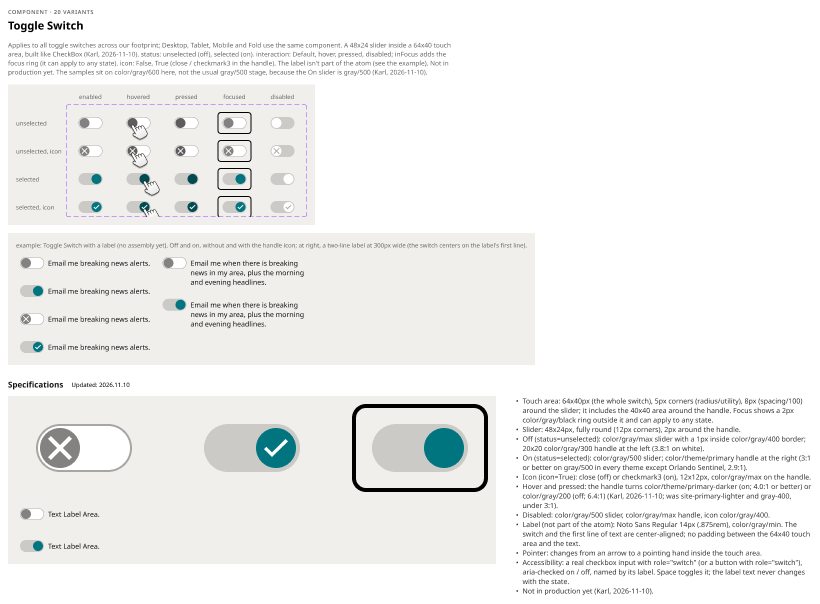
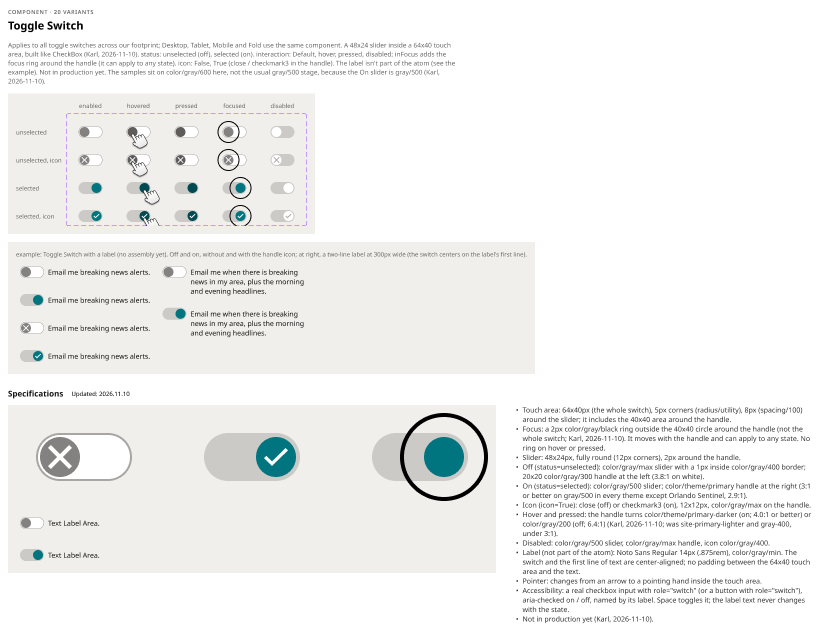
Toggle Switch: focus ring goes around the handle, not the whole switch
Karl, 2026-11-10. Figma InFocus variants: root stroke removed, a 40x40 Focus Ring circle
(2px color/gray/black outside) centered on the handle. Re-exported; ToggleSwitch in the
Claude design system draws it as a ::after on the handle.

Claude-Session: https://claude.ai/code/session_012ti5sSYUQaKpA7dxcyKU6q

diff --git a/components/core/toggle-switch/toggle-switch.html b/components/core/toggle-switch/toggle-switch.html
@@ -45,26 +45,28 @@
 <section class="mng-variant" data-variant="unselected / Default / True / False">
   <h2>unselected / Default / True / False <small>64×40 · <a href="https://www.figma.com/design/jFHYqhZbJjvWQmDI4myCsd/?node-id=5222-227">Figma 5222:227</a></small></h2>
   <div class="mng-variant__stage">
-    <div class="mng-toggle-switch__status-unselected-infocus-true-interaction-default-icon-false" data-layer="status=unselected, inFocus=True, interaction=Default, icon=False" style="display:flex;flex-direction:row;gap:0px;padding:var(--mng-spacing-100, 8px) var(--mng-spacing-100, 8px) var(--mng-spacing-100, 8px) var(--mng-spacing-100, 8px);justify-content:center;align-items:center;width:64px;height:40px;border-radius:var(--mng-radius-utility, 5px);box-shadow:0 0 0 2px var(--mng-color-gray-black, #000000)">
+    <div class="mng-toggle-switch__status-unselected-infocus-true-interaction-default-icon-false" data-layer="status=unselected, inFocus=True, interaction=Default, icon=False" style="display:flex;flex-direction:row;gap:0px;padding:var(--mng-spacing-100, 8px) var(--mng-spacing-100, 8px) var(--mng-spacing-100, 8px) var(--mng-spacing-100, 8px);justify-content:center;align-items:center;width:64px;height:40px;border-radius:var(--mng-radius-utility, 5px);position:relative">
       <div class="mng-toggle-switch__slider" data-layer="Slider" style="display:flex;flex-direction:row;gap:0px;padding:2px 2px 2px 2px;justify-content:flex-start;align-items:center;width:48px;flex-shrink:0;height:24px;border-radius:12px;background:var(--mng-color-gray-max, #ffffff);box-shadow:inset 0 0 0 1px var(--mng-color-gray-400, #a7a6a3)">
         <div class="mng-toggle-switch__handle" data-layer="Handle" style="display:flex;flex-direction:row;gap:8px;padding:0px 0px 0px 0px;justify-content:center;align-items:center;width:20px;flex-shrink:0;height:20px;border-radius:10px;background:var(--mng-color-gray-300, #838280)">
           <!-- instance of Icons (Name=close), Figma node 4693:36 -->
           <span class="mng-instance mng-toggle-switch__icon" data-component="Icons" data-variant="Name=close" aria-hidden="true" style="display:flex;flex-direction:row;gap:8px;padding:0px 0px 0px 0px;justify-content:center;align-items:center;width:12px;flex-shrink:0;height:12px;overflow:hidden;display:inline-flex;align-items:center;justify-content:center;font-size:12px;color:var(--mng-color-gray-max, #ffffff)" hidden>✕</span>
         </div>
       </div>
+      <div class="mng-toggle-switch__focus-ring" data-layer="Focus Ring" style="position:absolute;left:0px;width:40px;top:0px;height:40px;box-shadow:0 0 0 2px var(--mng-color-gray-black, #000000)" aria-hidden="true"></div>
     </div>
   </div>
 </section>
 <section class="mng-variant" data-variant="unselected / Default / True / True">
   <h2>unselected / Default / True / True <small>64×40 · <a href="https://www.figma.com/design/jFHYqhZbJjvWQmDI4myCsd/?node-id=5222-207">Figma 5222:207</a></small></h2>
   <div class="mng-variant__stage">
-    <div class="mng-toggle-switch__status-unselected-infocus-true-interaction-default-icon-true" data-layer="status=unselected, inFocus=True, interaction=Default, icon=True" style="display:flex;flex-direction:row;gap:0px;padding:var(--mng-spacing-100, 8px) var(--mng-spacing-100, 8px) var(--mng-spacing-100, 8px) var(--mng-spacing-100, 8px);justify-content:center;align-items:center;width:64px;height:40px;border-radius:var(--mng-radius-utility, 5px);box-shadow:0 0 0 2px var(--mng-color-gray-black, #000000)">
+    <div class="mng-toggle-switch__status-unselected-infocus-true-interaction-default-icon-true" data-layer="status=unselected, inFocus=True, interaction=Default, icon=True" style="display:flex;flex-direction:row;gap:0px;padding:var(--mng-spacing-100, 8px) var(--mng-spacing-100, 8px) var(--mng-spacing-100, 8px) var(--mng-spacing-100, 8px);justify-content:center;align-items:center;width:64px;height:40px;border-radius:var(--mng-radius-utility, 5px);position:relative">
       <div class="mng-toggle-switch__slider" data-layer="Slider" style="display:flex;flex-direction:row;gap:0px;padding:2px 2px 2px 2px;justify-content:flex-start;align-items:center;width:48px;flex-shrink:0;height:24px;border-radius:12px;background:var(--mng-color-gray-max, #ffffff);box-shadow:inset 0 0 0 1px var(--mng-color-gray-400, #a7a6a3)">
         <div class="mng-toggle-switch__handle" data-layer="Handle" style="display:flex;flex-direction:row;gap:8px;padding:0px 0px 0px 0px;justify-content:center;align-items:center;width:20px;flex-shrink:0;height:20px;border-radius:10px;background:var(--mng-color-gray-300, #838280)">
           <!-- instance of Icons (Name=close), Figma node 4693:36 -->
           <span class="mng-instance mng-toggle-switch__icon" data-component="Icons" data-variant="Name=close" aria-hidden="true" style="display:flex;flex-direction:row;gap:8px;padding:0px 0px 0px 0px;justify-content:center;align-items:center;width:12px;flex-shrink:0;height:12px;overflow:hidden;display:inline-flex;align-items:center;justify-content:center;font-size:12px;color:var(--mng-color-gray-max, #ffffff)">✕</span>
         </div>
       </div>
+      <div class="mng-toggle-switch__focus-ring" data-layer="Focus Ring" style="position:absolute;left:0px;width:40px;top:0px;height:40px;box-shadow:0 0 0 2px var(--mng-color-gray-black, #000000)" aria-hidden="true"></div>
     </div>
   </div>
 </section>
@@ -175,26 +177,28 @@
 <section class="mng-variant" data-variant="selected / Default / True / False">
   <h2>selected / Default / True / False <small>64×40 · <a href="https://www.figma.com/design/jFHYqhZbJjvWQmDI4myCsd/?node-id=5219-171">Figma 5219:171</a></small></h2>
   <div class="mng-variant__stage">
-    <div class="mng-toggle-switch__status-selected-infocus-true-interaction-default-icon-false" data-layer="status=selected, inFocus=True, interaction=Default, icon=False" style="display:flex;flex-direction:row;gap:0px;padding:var(--mng-spacing-100, 8px) var(--mng-spacing-100, 8px) var(--mng-spacing-100, 8px) var(--mng-spacing-100, 8px);justify-content:center;align-items:center;width:64px;height:40px;border-radius:var(--mng-radius-utility, 5px);box-shadow:0 0 0 2px var(--mng-color-gray-black, #000000)">
+    <div class="mng-toggle-switch__status-selected-infocus-true-interaction-default-icon-false" data-layer="status=selected, inFocus=True, interaction=Default, icon=False" style="display:flex;flex-direction:row;gap:0px;padding:var(--mng-spacing-100, 8px) var(--mng-spacing-100, 8px) var(--mng-spacing-100, 8px) var(--mng-spacing-100, 8px);justify-content:center;align-items:center;width:64px;height:40px;border-radius:var(--mng-radius-utility, 5px);position:relative">
       <div class="mng-toggle-switch__slider" data-layer="Slider" style="display:flex;flex-direction:row;gap:0px;padding:2px 2px 2px 2px;justify-content:flex-end;align-items:center;width:48px;flex-shrink:0;height:24px;border-radius:12px;background:var(--mng-color-gray-500, #cccac7)">
         <div class="mng-toggle-switch__handle" data-layer="Handle" style="display:flex;flex-direction:row;gap:8px;padding:0px 0px 0px 0px;justify-content:center;align-items:center;width:20px;flex-shrink:0;height:20px;border-radius:10px;background:var(--mng-color-theme-primary, #007580)">
           <!-- instance of Icons (Name=checkmark3), Figma node 4693:30 -->
           <span class="mng-instance mng-toggle-switch__icon" data-component="Icons" data-variant="Name=checkmark3" aria-hidden="true" style="display:flex;flex-direction:column;gap:8px;padding:0px 0px 0px 0px;justify-content:center;align-items:center;width:12px;flex-shrink:0;height:12px;overflow:hidden;display:inline-flex;align-items:center;justify-content:center;font-size:12px;color:var(--mng-color-gray-max, #ffffff)" hidden>◻</span>
         </div>
       </div>
+      <div class="mng-toggle-switch__focus-ring" data-layer="Focus Ring" style="position:absolute;left:24px;width:40px;top:0px;height:40px;box-shadow:0 0 0 2px var(--mng-color-gray-black, #000000)" aria-hidden="true"></div>
     </div>
   </div>
 </section>
 <section class="mng-variant" data-variant="selected / Default / True / True">
   <h2>selected / Default / True / True <small>64×40 · <a href="https://www.figma.com/design/jFHYqhZbJjvWQmDI4myCsd/?node-id=5220-189">Figma 5220:189</a></small></h2>
   <div class="mng-variant__stage">
-    <div class="mng-toggle-switch__status-selected-infocus-true-interaction-default-icon-true" data-layer="status=selected, inFocus=True, interaction=Default, icon=True" style="display:flex;flex-direction:row;gap:0px;padding:var(--mng-spacing-100, 8px) var(--mng-spacing-100, 8px) var(--mng-spacing-100, 8px) var(--mng-spacing-100, 8px);justify-content:center;align-items:center;width:64px;height:40px;border-radius:var(--mng-radius-utility, 5px);box-shadow:0 0 0 2px var(--mng-color-gray-black, #000000)">
+    <div class="mng-toggle-switch__status-selected-infocus-true-interaction-default-icon-true" data-layer="status=selected, inFocus=True, interaction=Default, icon=True" style="display:flex;flex-direction:row;gap:0px;padding:var(--mng-spacing-100, 8px) var(--mng-spacing-100, 8px) var(--mng-spacing-100, 8px) var(--mng-spacing-100, 8px);justify-content:center;align-items:center;width:64px;height:40px;border-radius:var(--mng-radius-utility, 5px);position:relative">
       <div class="mng-toggle-switch__slider" data-layer="Slider" style="display:flex;flex-direction:row;gap:0px;padding:2px 2px 2px 2px;justify-content:flex-end;align-items:center;width:48px;flex-shrink:0;height:24px;border-radius:12px;background:var(--mng-color-gray-500, #cccac7)">
         <div class="mng-toggle-switch__handle" data-layer="Handle" style="display:flex;flex-direction:row;gap:8px;padding:0px 0px 0px 0px;justify-content:center;align-items:center;width:20px;flex-shrink:0;height:20px;border-radius:10px;background:var(--mng-color-theme-primary, #007580)">
           <!-- instance of Icons (Name=checkmark3), Figma node 4693:30 -->
           <span class="mng-instance mng-toggle-switch__icon" data-component="Icons" data-variant="Name=checkmark3" aria-hidden="true" style="display:flex;flex-direction:column;gap:8px;padding:0px 0px 0px 0px;justify-content:center;align-items:center;width:12px;flex-shrink:0;height:12px;overflow:hidden;display:inline-flex;align-items:center;justify-content:center;font-size:12px;color:var(--mng-color-gray-max, #ffffff)">◻</span>
         </div>
       </div>
+      <div class="mng-toggle-switch__focus-ring" data-layer="Focus Ring" style="position:absolute;left:24px;width:40px;top:0px;height:40px;box-shadow:0 0 0 2px var(--mng-color-gray-black, #000000)" aria-hidden="true"></div>
     </div>
   </div>
 </section>

diff --git a/scripts/claude-design-system/src/components/ToggleSwitch/component.css b/scripts/claude-design-system/src/components/ToggleSwitch/component.css
@@ -1,4 +1,4 @@
-/* 64x40 touch area (radius/utility, 8px around the slider); the focus ring is a 2px gray/black outline outside it. */
+/* 64x40 touch area (radius/utility, 8px around the slider). The focus ring goes around the handle, not the touch area. */
 .mngds-toggle-switch {
   position: relative; display: inline-flex; align-items: center; justify-content: center; flex-shrink: 0; box-sizing: border-box;
   width: var(--mng-toggle-switch-base-root-width); height: var(--mng-toggle-switch-base-root-height);
@@ -18,7 +18,7 @@
   box-shadow: inset 0 0 0 var(--mng-toggle-switch-base-slider-border-width) var(--mng-toggle-switch-base-slider-border-color);
 }
 .mngds-toggle-switch__handle {
-  display: flex; align-items: center; justify-content: center; flex-shrink: 0;
+  position: relative; display: flex; align-items: center; justify-content: center; flex-shrink: 0;
   width: var(--mng-toggle-switch-base-slider-handle-width); height: var(--mng-toggle-switch-base-slider-handle-height);
   border-radius: var(--mng-toggle-switch-base-slider-handle-border-radius);
   background: var(--mng-toggle-switch-status-unselected-interaction-default-slider-handle-background);
@@ -51,7 +51,11 @@
 .mngds-toggle-switch--disabled .mngds-toggle-switch__handle { background: var(--mng-toggle-switch-status-unselected-interaction-disabled-slider-handle-background); }
 .mngds-toggle-switch--disabled .mngds-toggle-switch__icon { color: var(--mng-toggle-switch-interaction-disabled-slider-handle-icon-icon-color); }
 
-/* InFocus (forced or keyboard focus): 2px gray/black ring outside the touch area. */
-.mngds-toggle-switch.is-infocus, .mngds-toggle-switch:has(.mngds-toggle-switch__input:focus-visible) {
-  box-shadow: 0 0 0 var(--mng-toggle-switch-infocus-true-root-border-width) var(--mng-toggle-switch-infocus-true-root-border-color);
+/* InFocus (forced or keyboard focus): a 2px gray/black ring outside the 40x40 circle around the handle (Figma
+   Focus Ring: the touch-area height around the 20px handle), moving with it. Not on hover or pressed. */
+.mngds-toggle-switch.is-infocus .mngds-toggle-switch__handle::after,
+.mngds-toggle-switch:has(.mngds-toggle-switch__input:focus-visible) .mngds-toggle-switch__handle::after {
+  content: ""; position: absolute; pointer-events: none; border-radius: 50%;
+  inset: calc((var(--mng-toggle-switch-base-root-height) - var(--mng-toggle-switch-base-slider-handle-height)) / -2);
+  box-shadow: 0 0 0 var(--mng-toggle-switch-infocus-true-focus-ring-border-width) var(--mng-toggle-switch-infocus-true-focus-ring-border-color);
 }

diff --git a/scripts/claude-design-system/src/components/ToggleSwitch/preview.html b/scripts/claude-design-system/src/components/ToggleSwitch/preview.html
@@ -20,7 +20,7 @@
       h(NS.ToggleSwitch, { status: s[0] ? 'selected' : 'unselected', icon: p.icon, onChange: function (e) { s[1](e.target.checked); } }), 'Email me breaking news alerts');
   }
   ReactDOM.createRoot(document.getElementById('root')).render(h('div', null,
-    h(I.SpecimenSection, { title: 'status × interaction', note: 'A 48x24 slider in a 64x40 touch area (radius/utility). Off: white slider, gray/400 border, gray/300 handle. On: gray/500 slider, color/theme/primary handle. Hover and pressed darken the handle (gray/200, primary-darker). Focus shows a 2px gray/black ring. Samples sit on gray/600 because the On slider is gray/500.' },
+    h(I.SpecimenSection, { title: 'status × interaction', note: 'A 48x24 slider in a 64x40 touch area (radius/utility). Off: white slider, gray/400 border, gray/300 handle. On: gray/500 slider, color/theme/primary handle. Hover and pressed darken the handle (gray/200, primary-darker). Focus shows a 2px gray/black ring around the handle. Samples sit on gray/600 because the On slider is gray/500.' },
       [['unselected', false], ['unselected', true], ['selected', false], ['selected', true]].map(function (r) { return h(I.Specimen, { key: r[0] + r[1], items: row(r[0], r[1]) }); })),
     h(I.SpecimenSection, { title: 'Try it', note: 'Click, or Tab to it and press Space. The switch and the first line of the label are center-aligned, with no gap after the 64x40 touch area.' },
       h(I.Specimen, { items: [{ label: 'Off, with a label', node: h(Demo) }, { label: 'On, with the handle icon', node: h(Demo, { on: true, icon: true }) }] }))));

diff --git a/MNG-Web-Design-System-Status.md b/MNG-Web-Design-System-Status.md
@@ -209,7 +209,7 @@ The component specs in `components/` (modal, disclosure, empty-state-status-badg
 
 Kept here for a few weeks so the history is easy to find; git log has the rest.
 
-- **Toggle Switch** (2026-11-10; Karl: build it like the CheckBox). Main file, Toggle Switches page (renamed "Toggle Switches | 2026.11.10"). The `selection/toggle ` set (`5216:61`, Material 3 kit names) became **Toggle Switch**, same node, so its instances follow: properties `status` (unselected | selected), `interaction` (Default | hover | pressed | disabled), `inFocus` (False | True), `icon` (False | True), 20 variants, default off. Root = a 64x40 touch area (8px `spacing/100` around the 48x24 slider, `radius/utility`; Karl picked 64x40 after a side-by-side with 64x24), InFocus = 2px `color/gray/black` ring outside it (no ring on hover, as in CheckBox's Figma variants). Colors bound: off slider `gray/max` + 1px `gray/400`, handle `gray/300`; on slider `gray/500`, handle `color/theme/primary`; hover and pressed handle `primary-darker` (on) / `gray/200` (off) (Karl: was site-primary-lighter / gray-400, under 3:1; primary-darker is 4.0:1 or better on gray/500, gray/200 6.4:1 on white); disabled slider `gray/500`, handle `gray/max`, icon `gray/400` (Karl: the drawing was right, the old spec text had slider and handle swapped). Layers renamed Slider / Handle / Icon. New white documentation container copied from CheckBox's (Variant Grid with row and column labels and pointer cursors, an example with labels, Specifications with a 4× detail), on a **`color/gray/600` stage** (Karl: the On slider is gray/500; CLAUDE.md exception). The old March documentation frame is moved to the right and labelled "can be deleted". Contrast: Orlando Sentinel's On handle is 2.9:1 on gray/500 (known issue); the On slider is 1.6:1 on white (the handle carries the state). Not in production yet (Karl). Exported (`components/core/toggle-switch/`, 20 variants, 45 tokens) and added to the Claude design system as `ToggleSwitch` (a native checkbox input with `role="switch"` over the touch area). Raw values from the spec: the slider's 12px corners and 2px padding, the handle's 10px corners. Question for Karl: CheckBox's spec text says hover and pressed show the ring, but its Figma hover and pressed variants have no ring (the toggle follows the variants).
+- **Toggle Switch** (2026-11-10; Karl: build it like the CheckBox). Main file, Toggle Switches page (renamed "Toggle Switches | 2026.11.10"). The `selection/toggle ` set (`5216:61`, Material 3 kit names) became **Toggle Switch**, same node, so its instances follow: properties `status` (unselected | selected), `interaction` (Default | hover | pressed | disabled), `inFocus` (False | True), `icon` (False | True), 20 variants, default off. Root = a 64x40 touch area (8px `spacing/100` around the 48x24 slider, `radius/utility`; Karl picked 64x40 after a side-by-side with 64x24), InFocus = 2px `color/gray/black` ring outside the 40x40 circle around the handle, moving with it (Karl, same day: around the handle, not the whole switch; first built around the touch area); no ring on hover or pressed. Colors bound: off slider `gray/max` + 1px `gray/400`, handle `gray/300`; on slider `gray/500`, handle `color/theme/primary`; hover and pressed handle `primary-darker` (on) / `gray/200` (off) (Karl: was site-primary-lighter / gray-400, under 3:1; primary-darker is 4.0:1 or better on gray/500, gray/200 6.4:1 on white); disabled slider `gray/500`, handle `gray/max`, icon `gray/400` (Karl: the drawing was right, the old spec text had slider and handle swapped). Layers renamed Slider / Handle / Icon. New white documentation container copied from CheckBox's (Variant Grid with row and column labels and pointer cursors, an example with labels, Specifications with a 4× detail), on a **`color/gray/600` stage** (Karl: the On slider is gray/500; CLAUDE.md exception). The old March documentation frame is moved to the right and labelled "can be deleted". Contrast: Orlando Sentinel's On handle is 2.9:1 on gray/500 (known issue); the On slider is 1.6:1 on white (the handle carries the state). Not in production yet (Karl). Exported (`components/core/toggle-switch/`, 20 variants, 45 tokens) and added to the Claude design system as `ToggleSwitch` (a native checkbox input with `role="switch"` over the touch area). Raw values from the spec: the slider's 12px corners and 2px padding, the handle's 10px corners. Open: CheckBox's spec text says hover and pressed show the ring, but its Figma hover and pressed variants have none; Karl isn't sure which is intended (the toggle has no ring on hover).
 - **Modal close button inside the card** (2026-11-10; Karl: on all modals, use the in-line close in the container's top-right corner). Main file, Modal Panels page (renamed "Modal Panels | 2026.11.10"): in all 6 ModalsCenter variants Button Modal Close (32px circle centered on the card's corner) was replaced by Button In-Line Close (40×40 target, 28px box, 12px icon, unchanged), absolute in the Content Frame's top-right corner, flush with its top and right edges (x = width − 40, y = 0, constraints right / top), the same placement it has in InLineMessage and ModalsOffset. TabletH's close button used to sit in Modal Container; it's in the Content Frame now like the others. Mobile, Fold and MobileScroll headers keep 16px (`spacing/200`, bound) clear on their right so the title wraps before the button (Karl chose this); Desktop and tablets already clear it with their 40px padding. The same swap on the four detached cards in the Specifications (two keyboard samples, the two filled-block diagrams); the two orange dashed "open question" markers removed; spec list, description, legend, sample notes and the set description updated; ModalsCenter instances elsewhere (Share Dialog layouts, Buttons page) follow the component. Accessibility: the target is now 40×40 (WCAG 2.5.8). Re-exported ModalsCenter, Pop-Up Modal Close and In-Line Close (registry text: Modal Close no longer used on modals). Claude design system: `ModalsCenter` uses `ButtonInLineClose` in the corner, header right padding from the new `header.padding-right` token; the Button Modal Close and In-Line Close guidance updated. Not changed: Button Modal Close itself (it stays in the library); the `Modals/*/Login` components in the main file (no page; probably from the Embedded Login work) and the Embedded Login file still use Button Modal Close; Reader Dashboard v2.0 picks up the change when the library is published (its own detached modals, if any, weren't checked: the file timed out). Publish the main library (Karl).
 - **ModalsCenter in the Claude design system** (2026-11-10; Karl: "not quite ready to share"). The Claude version was never rebuilt after the 2026-11-04 Figma change: its MobileScroll pointed at 8 component token names that no longer exist, so that sample drew broken (no margin, close button cut off, the whole card scrolled). Rebuilt `scripts/claude-design-system/src/components/ModalsCenter/`: one layout for every Device (the card never grows past the screen; when content is taller only the Body Container scrolls, header and CTAs stay put), the Figma scroll indicator (4px `color/gray/300`, 3.84:1 non-text), compact mode under 560px of visible area (subtitle and links move into the body, card padding 16 top and bottom), the keyboard-open layout (visualViewport, 8px gaps, covers the masthead), the focus rule for fields, and the 2026-11-05 Accessibility rules (rendered at the end of `body` with everything else `inert`, page scroll-locked, focus to the `h2` title, close button last in the Tab order, a scrolling body with nothing focusable gets `tabindex="0"`). New props `compact`, `keyboardOpen`, `visibleHeight`, `role`. New preview: the card at 100%, every Device on the screen at one scale (30%), MobileScroll at 100%, the keyboard-open samples (Mobile 414px visible, TabletH 368px visible), and a working modal with a Form Field. Checked headless in all three themes: Desktop card 444×347 like Figma, Tab order field → CTAs → Close, Esc returns focus, `inert` and scroll lock removed on close. Text colors unchanged (`color/gray/min` on `color/gray/max`). Re-exported from Figma (`components/core/modals-center/`): only the page name (Modal Panels | 2026.11.05), dates and the documentation PNG changed. `build.py` now stops when `bundle.css` uses a `--mng-` variable no token defines. Overview: `radius-utility` no longer lists modals (the card is `radius/lg`). Still open: the close-button and masthead questions for DigiScrum and CMS (15(a)), and Karl's confirmation of the 15(f) focus choices.
 - **Modal scrolling and on-screen keyboard** (2026-11-04; Karl). Rules from the Embedded Login file's "Keyboard behavior — spec" ported to the main file's Modal Panels page (renamed "Modal Panels | 2026.11.04"): ModalsCenter `Device=MobileScroll` (`3693:1351`) is now 360×800 with the 24px margin, a fixed header and CTA stack and a scrolling Body Container (the old Controls Overlay placeholder was removed; the component had no instances); new samples under ModalsCenter Container › Specifications › "Scrolling and on-screen keyboard" (keyboard closed in context, Mobile keyboard open at 414px visible, TabletH keyboard open at 368px visible, keyboards copied from the Embedded Login file); spec list, component and set descriptions updated. Scroll indicator `color/gray/300` (3.84:1) applied in both files; Embedded Login's black 35% (about 2.4:1) failed. ModalsCenter re-exported (`components/core/modals-center/`).

diff --git a/components/core/toggle-switch/toggle-switch.md b/components/core/toggle-switch/toggle-switch.md
@@ -14,7 +14,7 @@ exported: 2026-11-10
 
 # Toggle Switch
 
-> Toggle switch (on / off), built like CheckBox (Karl, 2026-11-10): a 48x24 slider inside a 64x40 touch area. status = unselected (off), selected (on); interaction = Default, hover, pressed, disabled; inFocus adds the focus ring; icon = False, True (close / checkmark3 in the handle). The label isn't part of the atom.
+> Toggle switch (on / off), built like CheckBox (Karl, 2026-11-10): a 48x24 slider inside a 64x40 touch area. status = unselected (off), selected (on); interaction = Default, hover, pressed, disabled; inFocus adds the focus ring around the handle; icon = False, True (close / checkmark3 in the handle). The label isn't part of the atom.
 
 ## Figma
 
@@ -71,9 +71,9 @@ From `toggle-switch.tokens.json`. References point at system tokens (`tokens/cor
 
 | Token | Value |
 |---|---|
-| `toggle-switch.infocus-true.root.border-color` | `{color.gray.black}` |
-| `toggle-switch.infocus-true.root.border-style` | solid |
-| `toggle-switch.infocus-true.root.border-width` | 2px |
+| `toggle-switch.infocus-true.focus-ring.border-color` | `{color.gray.black}` |
+| `toggle-switch.infocus-true.focus-ring.border-style` | solid |
+| `toggle-switch.infocus-true.focus-ring.border-width` | 2px |
 | `toggle-switch.base.root.border-radius` | `{radius.utility}` |
 | `toggle-switch.base.root.height` | 40px |
 | `toggle-switch.base.root.padding-bottom` | `{spacing.100}` |
@@ -121,7 +121,8 @@ From `toggle-switch.tokens.json`. References point at system tokens (`tokens/cor
 
 No Breakpoint property: one size at every width.
 
-- **Touch area:** 64x40px (the whole switch), 5px corners (`radius/utility`), 8px (`spacing/100`) around the slider; it includes the 40x40 area around the handle. Focus shows a 2px `color/gray/black` ring outside it and can apply to any state.
+- **Touch area:** 64x40px (the whole switch), 5px corners (`radius/utility`), 8px (`spacing/100`) around the slider; it includes the 40x40 area around the handle.
+- **Focus:** a 2px `color/gray/black` ring outside the 40x40 circle around the handle, not the whole switch (Karl, 2026-11-10). It moves with the handle and can apply to any state. No ring on hover or pressed.
 - **Slider:** 48x24px, fully round (12px corners), 2px around the 20x20 handle.
 - **Off** (`status=unselected`): `color/gray/max` slider with a 1px inside `color/gray/400` border; `color/gray/300` handle at the left (3.8:1 on white).
 - **On** (`status=selected`): `color/gray/500` slider; `color/theme/primary` handle at the right (3:1 or better on gray/500 in every theme except Orlando Sentinel, 2.9:1).

diff --git a/scripts/claude-design-system/src/components/ToggleSwitch/notes.md b/scripts/claude-design-system/src/components/ToggleSwitch/notes.md
@@ -1,5 +1,5 @@
 - A native `<input type="checkbox" role="switch">` sits invisibly over the 64x40 touch area (as in `CheckBox`), so keyboard, form and screen-reader behavior are the browser's; screen readers announce it as a switch, on or off.
-- Focus ring: 2px `color/gray/black` outside the touch area, `radius/utility` corners, drawn as an outer `box-shadow`; forced with `inFocus`, real on keyboard `:focus-visible`. Figma shows it only on InFocus (no ring on hover or pressed).
+- Focus ring (Karl, 2026-11-10): 2px `color/gray/black` outside the 40x40 circle around the handle, not the touch area; a `::after` on the handle, so it moves with it. Its 40px size is the touch-area height (no separate token). Forced with `inFocus`, real on keyboard `:focus-visible`; no ring on hover or pressed.
 - The slider's 1px `color/gray/400` border is an inset `box-shadow`, drawn only when off and not disabled (Figma draws it only there; the export lists it under `base` because only those variants have it).
 - The handle jumps from left to right with no animation: the spec gives none.
 - Raw values from the spec: the slider's 12px corners, 2px padding and the handle's 10px corners (no tokens: listed in Known issues).
